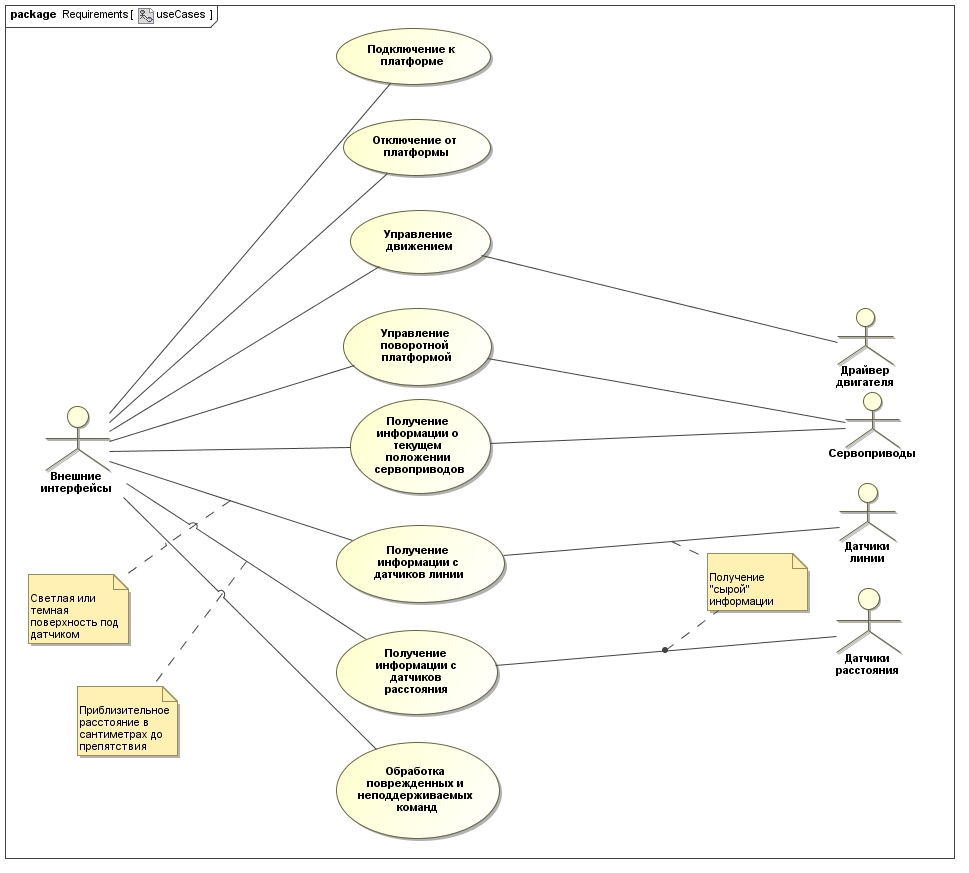
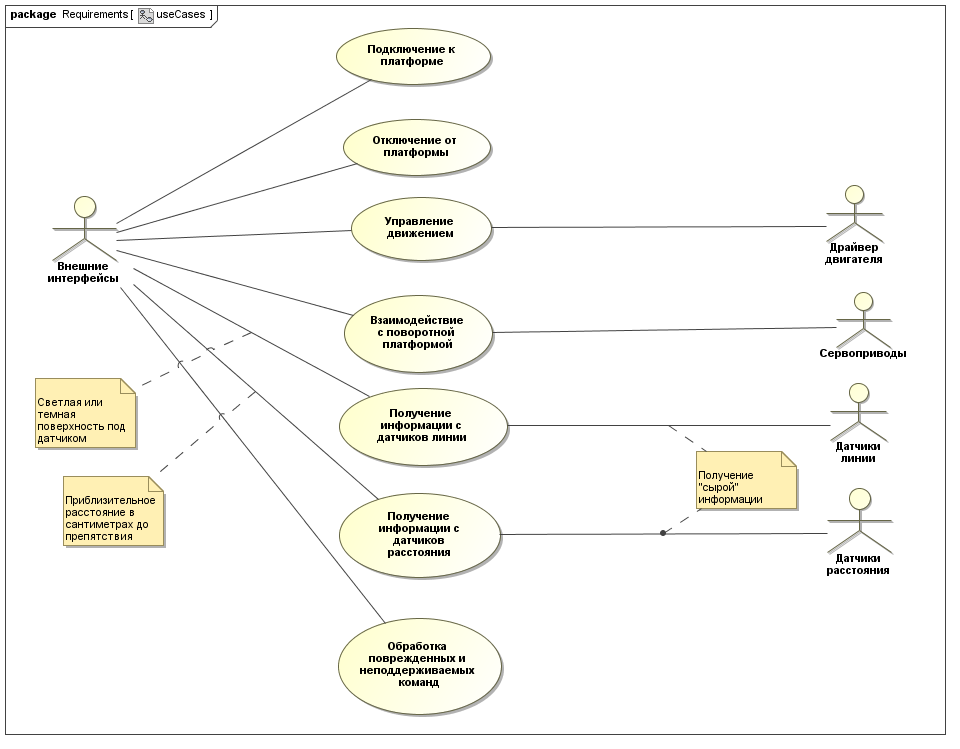
Servo requirements, event flow were fixed. Use case diagram was updated.

diff --git a/docs/FlowOfEvents.md b/docs/FlowOfEvents.md
@@ -5,16 +5,16 @@
 Данный вариант использования позволяет внешнему интерфейсу подключаться к платформе для дальнейшего управления ей  
 Предусловие: платформа находится в состоянии ожидания подключения  
 Основной поток событий:  
-1. Вариант использования начинается, когда платформа переходит в состояние ожидания подключения  
-2. Платформа ожидает прихода сообщения по любому из внешних интерфейсов
+1. Вариант использования начинается, когда платформа получает какое-либо сообщение  
 2. Платформа проверяет, является ли пришедшее сообщение неповрежденной командой подключения. Если нет, выполняется альтернативный поток E1.
 2. Платформа возвращает [утвердительный ответ](Requirements.md#service_answers) используя внешний интерфейс, от которого было получено это сообщение.
 2. Платформа переходит в состояние ожидания следующей команды
 3. Вариант использования завершается
 
 Альтернативный поток событий E1:
+1. Альтернативный поток событий E1 начинается.
 1. Платформа возвращает [отрицательный ответ](Requirements.md#service_answers) используя внешний интерфейс, от которого было получено это сообщение.
-3. Вариант использования начинается сначала
+3. Альтернативный поток событий E1 завершается
 
 ## Отключение от платформы
 
@@ -22,9 +22,15 @@
 Предусловие: платформа находится в состоянии ожидания команды  
 Основной поток событий:  
 1. Вариант использования начинается, когда была принята и распознана команда отключения от платформы  
+2. Платформа проверяет корректность параметров в команде. При обнаружении некорректных параметров выполняется альтернативный поток E2.
 2. Платформа возвращает [утвердительный ответ](Requirements.md#service_answers) используя внешний интерфейс, от которого было получено это сообщение.
 2. Платформа переходит в состояние ожидания подключения
 3. Вариант использования завершается
+
+Альтернативный поток событий E2:
+1. Альтернативный поток событий E2 начинается.
+1. Платформа возвращает [отрицательный ответ](Requirements.md#service_answers) используя внешний интерфейс, от которого было получено сообщение.
+5. Альтернативный поток событий E2 завершается
 
 ## Управление движением
 
@@ -39,53 +45,39 @@
 5. Вариант использования завершается
 
 Альтернативный поток событий E2:
+1. Альтернативный поток событий E2 начинается.
 1. Платформа возвращает [отрицательный ответ](Requirements.md#service_answers) используя внешний интерфейс, от которого было получено сообщение.
-5. Вариант использования завершается
+5. Альтернативный поток событий E2 завершается
 
 Постусловия: 
 Платформа переходит в состояние ожидания следующей команды
 
-<a name="servo_manage"/>
+## Взяимодействие с поворотной платформой
 
-## Управление поворотной платформой
-//TODO
-Данный вариант использования позволяет внешнему интерфейсу устанавливать угол отклонения поворотной платформы от начального положения.  
+Данный вариант использования позволяет внешнему интерфейсу устанавливать угол отклонения поворотной платформы от начального положения 
+и получать информацию о текущем положении поворотной платформы.  
 Предусловие: платформа находится в состоянии ожидания команды  
 Основной поток событий:  
-1. Вариант использования начинается, когда была принята и распознана команда работы с сервоприводами  
+1. Вариант использования начинается, когда была принята и распознана команда работы с поворотной платформой  
 2. Платформа проверяет корректность параметров в команде. При обнаружении некорректных параметров выполняется альтернативный поток E2.
-3. Платформа проверяет вид команды: получение информации о текущем положении поворотной платформы или изменение текущего положения сервоприводов в пространстве. В первом случае выполняется поток событий ["Получение информации о текущем положении поворотной платформы"](#servo_get_info) и текущий поток завершается
-3. Платформа конвертирует параметры команды в вид, требуемый поворотной платформе для установки текущего отклонения  
+3. Платформа проверяет вид команды. Если это команда о получении информации о текущем положении поворотной платформы, выполняется альтернативный поток событий A1.
+3. Платформа конвертирует параметры команды в вид, требуемый поворотной платформе для установки текущего положения  
 4. Платформа отправляет данные о требуемом положении сервоприводам  
 4. Платформа возвращает [утвердительный ответ](Requirements.md#service_answers) используя внешний интерфейс, от которого было получено это сообщение.
 5. Вариант использования завершается
 
-Альтернативный поток событий E2:
-1. Платформа возвращает [отрицательный ответ](Requirements.md#service_answers) используя внешний интерфейс, от которого было получено сообщение.
-5. Вариант использования завершается
-
-Постусловия: 
-Платформа переходит в состояние ожидания следующей команды
-
-<a name="servo_get_info"/>
-
-## Получение информации о текущем положении поворотной платформы
-//TODO
-Данный вариант использования позволяет внешнему интерфейсу получать информацию о текущем положении поворотной платформы.  
-Предусловие: платформа находится в состоянии ожидания команды  
-Основной поток событий:  
-1. Вариант использования начинается, когда была принята и распознана команда работы с сервоприводами  
-2. Платформа проверяет корректность параметров в команде. При обнаружении некорректных параметров выполняется альтернативный поток E2.
-3. Платформа проверяет вид команды: получение информации о текущем положении поворотной платформы или изменение текущего положения сервоприводов в пространстве. В последнем случае выполняется поток событий ["Управление поворотной платформой"](#servo_manage) и текущий поток завершается
+Альтернативный поток событий A1:
+1. Альтернативный поток событий A1 начинается.
 3. Платформа получает информацию о текущем положении поворотной платформы  
 3. Платформа конвертирует полученную информацию в соответствии с протоколом общения с вненшими интерфейсами
 4. Платформа возвращает сконвертированную информацию внешнему интерфейсу
 4. Платформа возвращает [утвердительный ответ](Requirements.md#service_answers) используя внешний интерфейс, от которого было получено это сообщение.
-5. Вариант использования завершается
+5. Альтернативный поток событий A1 завершается
 
 Альтернативный поток событий E2:
+1. Альтернативный поток событий E2 начинается.
 1. Платформа возвращает [отрицательный ответ](Requirements.md#service_answers) используя внешний интерфейс, от которого было получено сообщение.
-5. Вариант использования завершается
+5. Альтернативный поток событий E2 завершается
 
 Постусловия: 
 Платформа переходит в состояние ожидания следующей команды
@@ -106,8 +98,9 @@
 5. Вариант использования завершается
 
 Альтернативный поток событий E2:
+1. Альтернативный поток событий E2 начинается.
 1. Платформа возвращает [отрицательный ответ](Requirements.md#service_answers) используя внешний интерфейс, от которого было получено сообщение.
-5. Вариант использования завершается
+5. Альтернативный поток событий E2 завершается
 
 Постусловия: 
 Платформа переходит в состояние ожидания следующей команды
@@ -128,8 +121,9 @@
 5. Вариант использования завершается
 
 Альтернативный поток событий E2:
+1. Альтернативный поток событий E2 начинается.
 1. Платформа возвращает [отрицательный ответ](Requirements.md#service_answers) используя внешний интерфейс, от которого было получено сообщение.
-5. Вариант использования завершается
+5. Альтернативный поток событий E2 завершается
 
 Постусловия: 
 Платформа переходит в состояние ожидания следующей команды
@@ -148,5 +142,6 @@
 5. Вариант использования завершается
 
 Альтернативный поток событий E2:
+1. Альтернативный поток событий E2 начинается.
 1. Платформа возвращает [отрицательный ответ](Requirements.md#service_answers) используя внешний интерфейс, от которого было получено сообщение.
-5. Вариант использования завершается
+5. Альтернативный поток событий E2 завершается

diff --git a/docs/Requirements.md b/docs/Requirements.md
@@ -23,12 +23,14 @@
 
 # Версия документа
 
-1.2
+1.3
 
 <a name="revisions"/>
 
 # Список изменений
 
+- Версия 1.3 (2017.10.29)
+    В фунциональных требованиях объединено взаимодействие с поворотной платформой в один общий пункт
 - Версия 1.2 (2017.10.28)
     В фунциональных требованиях уточнена работа по протоколу
 - Версия 1.1 (2017.10.19)
@@ -235,12 +237,13 @@
     - движение назад;
     - разворот по направлению движения часовой стрелки;
     - разворот против направления движения часовой стрелки;
-1. управление поворотной платформой (сервоприводами):  
-    - поворот в плоскости xy;
-    - поворот в плоскости xz;
-1. получение информации о текущем состоянии сервоприводов:
-    - получение текущего угла отклонения в плоскости xy;
-    - получение текущего угла отклонения в плоскости xz;
+1. взаимодействие с поворотной платформой:
+    - управление поворотной платформой:  
+        - поворот в плоскости xy;
+        - поворот в плоскости xz;
+    - получение информации о текущем состоянии сервоприводов:
+        - получение текущего угла отклонения в плоскости xy;
+        - получение текущего угла отклонения в плоскости xz;
 1. получение корректной информации с датчиков линии (с "заводской" калибровкой датчиков
 в виде констант);  
 1. получение корректной информации с датчиков расстояния (с "заводской" калибровкой датчиков 
